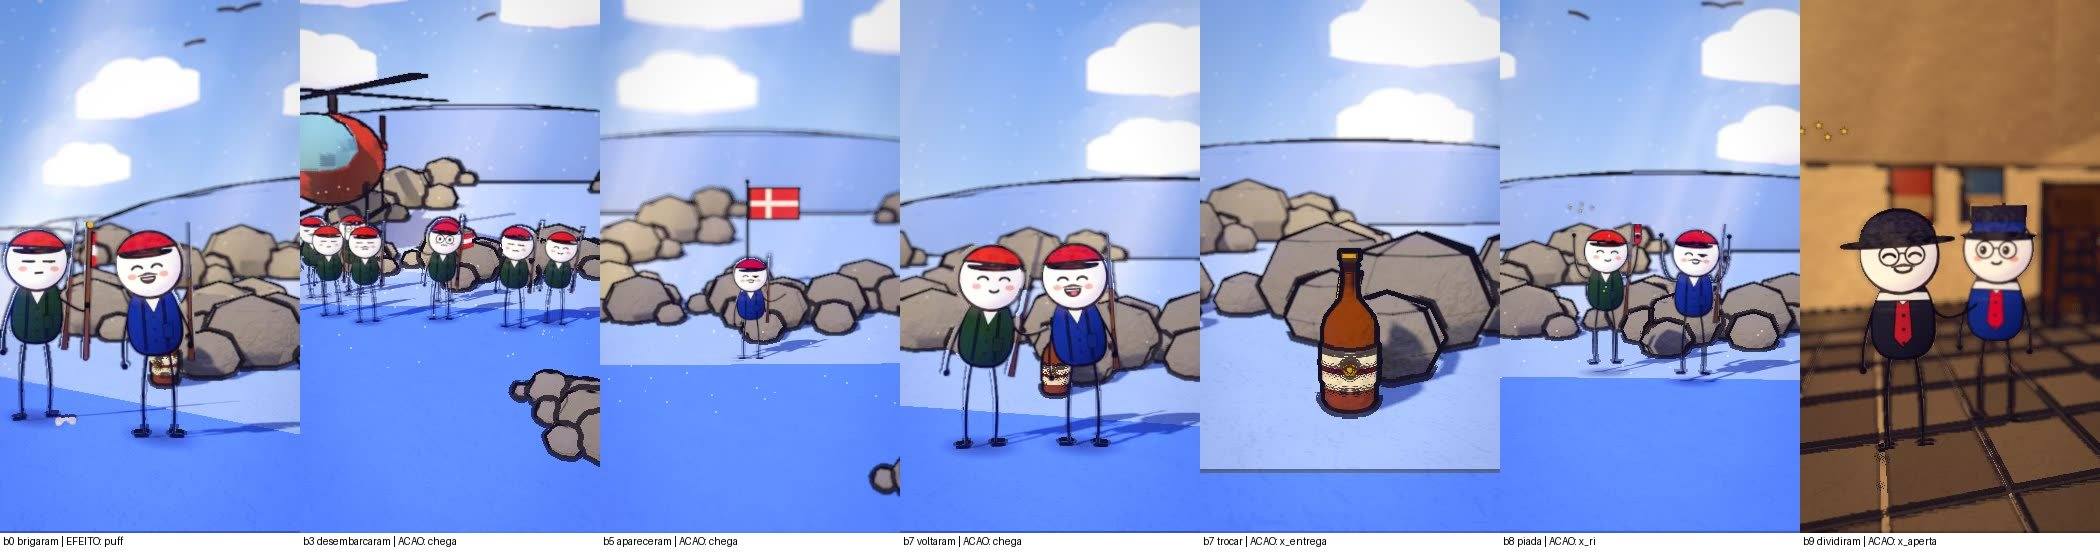
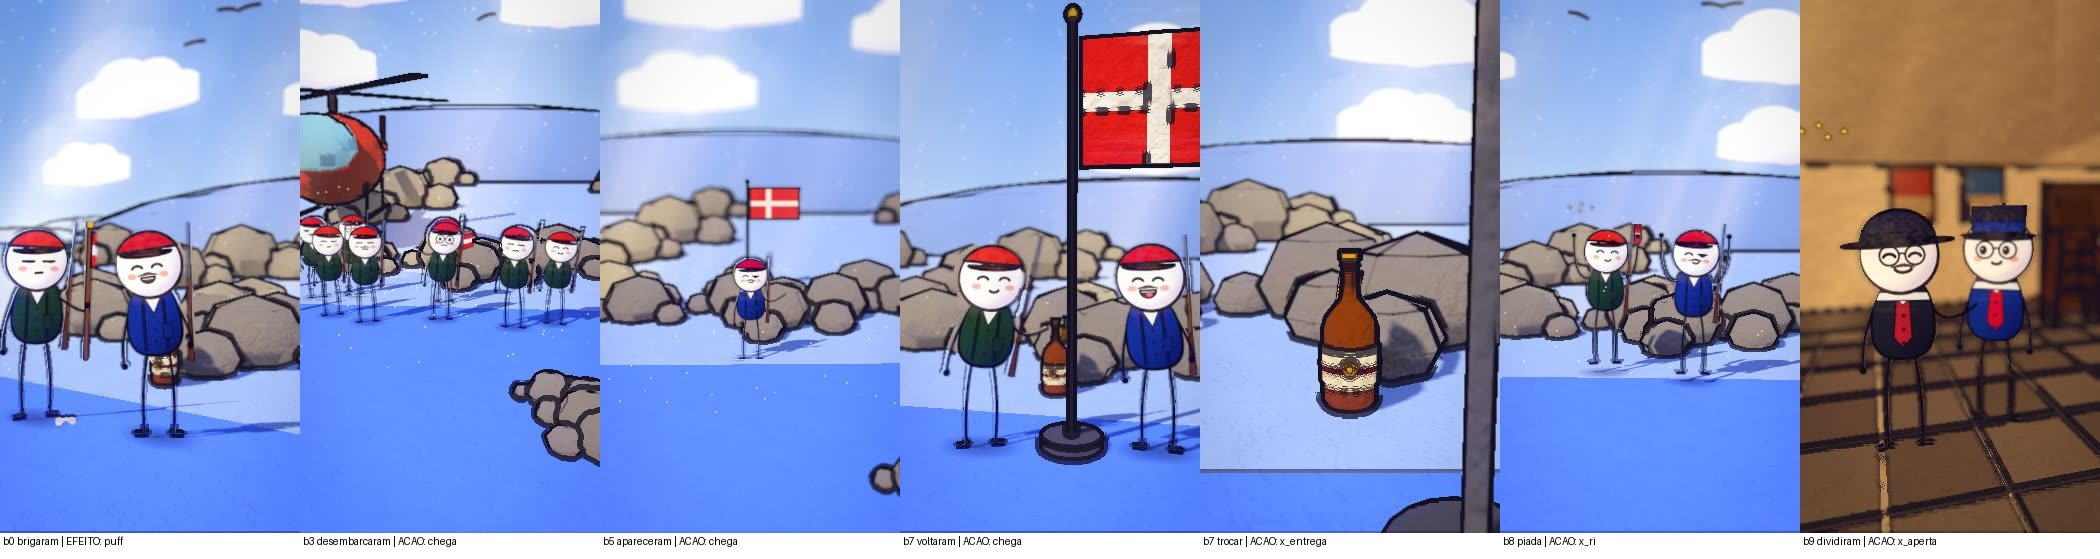
Banquinho b8 enquadramento automatico
Claude-Session: https://claude.ai/code/session_01HE8Dy3UcXXZZMLa7uzjNJD

Changed region(s): [[0.4952, 0.0, 0.5881, 0.8515], [0.65, 0.0, 0.7119, 0.9732]]

diff --git a/ferramenta-shorts/web/story.js b/ferramenta-shorts/web/story.js
@@ -41,11 +41,11 @@ const SPEC = {
     S('b4', A[4], A[5] - 1, X, "day", { h: 2.3, d0: 12.1, d1: 11.5, az0: 16, az1: 30, cx: 0.0, cz: -0.6, hero: { hero: 'any', frame: 'medium', minH: 0.07, main: 2 }, trans: 'dissolve', actors: [pp(X, "CAN", 0, -1.0, 1.3, "smile", { over: { hold: "flag" }, pose: 'cheer', inter: { k: 'hop', a: Math.round(A[4] + (A[5] - 1 - (A[4])) * 0.12), b: Math.round(A[4] + (A[5] - 1 - (A[4])) * 0.82), dir: 1, n: 2, ph: 0 } }), pp(X, "CAN", 1, 1.0, 1.0, "laugh", { pose: 'cheer', inter: { k: 'hop', a: Math.round(A[4] + (A[5] - 1 - (A[4])) * 0.2), b: Math.round(A[4] + (A[5] - 1 - (A[4])) * 0.9), dir: -1, n: 2, ph: 3.14 } })], props: [{ asset: "kit/bandeira_canada", at: [X + 7.0, -14.0], s: 0.9, fixo: true, drop: false }, { asset: "kit/whisky", at: [X + 0.0, -1.2], s: 1.2, fixo: true, drop: false }, { asset: "kit/tequila_bolt", at: [X + 0.0, -2.3], s: 1.0, drop: false }], fx: [{ k: 'stars', a: A[4] + 6, b: A[4] + 40, at: [X + 0.0, DK + 1.6, -0.7], s: 0.8 }, { k: 'birds', a: A[4], b: A[5] - 1, at: [X, DK + 6.0, -30], n: 5, dir: 1, off: 8 }] }),
     { ...S('b5', A[5], A[6] - 1, X, "day", { h: 2.4, d0: 21.0, d1: 20.0, el: 11, fov: 46, cx: 0.0, cz: -2.0, hero: { hero: 'none', wide: true }, vary: false, nocut: true, trans: 'dissolve', actors: [_MA(pp(X, "DIN", 0, 0.0, -0.4, "smug", { over: { hold: "flag" } }), { gests: [[WS(77) - 8, WS(77) + 46, 'point']] })], props: [{ asset: "kit/bandeira_dinamarca", at: [X + 0.0, -8.9], s: 1.2, fixo: true, drop: false }], fx: [{ k: 'birds', a: A[5], b: A[6] - 1, at: [X, DK + 7.5, -30], n: 6, dir: 1, off: 15 }, { k: "stars", a: A[5] + 30, b: A[5] + 56, at: [X, DK + 0.5, 1.2], s: 1.1 }] }), nocut: true },
     S('b6', A[6], Math.round(A[6] + (A[7] - 1 + 1 - (A[6])) * 0.36) - 1, X, "day", { h: 2.3, d0: 12.1, d1: 11.5, az0: -14, az1: 4, cx: 0.0, cz: -0.6, hero: { hero: 'any', frame: 'medium', minH: 0.07, main: 2 }, trans: 'dissolve', actors: [pp(X, "DIN", 0, -1.0, 1.3, "grin", { over: { hold: "paper" }, inter: { k: 'step', a: Math.round(A[6] + (A[7] - 1 - (A[6])) * 0.12), b: Math.round(A[6] + (A[7] - 1 - (A[6])) * 0.82), dir: 1, n: 2, ph: 0 } }), pp(X, "CAN", 0, 1.0, 1.0, "shock", { pose: 'react', inter: { k: 'nod', a: Math.round(A[6] + (A[7] - 1 - (A[6])) * 0.2), b: Math.round(A[6] + (A[7] - 1 - (A[6])) * 0.9), dir: -1, n: 2, ph: 3.14 } })], props: [{ asset: "kit/whisky", at: [X + 0.0, -1.2], s: 1.2, fixo: true, drop: false }, { asset: "mk/Crate_Metal", at: [X + -3.1, 0.2], s: 1.1 }, { asset: "kit/tequila_bolt", at: [X + 0.0, -2.3], s: 1.0, drop: false }], fx: [{ k: 'stars', a: A[6] + 6, b: A[6] + 40, at: [X + 0.0, DK + 1.6, -0.7], s: 0.8 }, { k: 'birds', a: A[6], b: A[7] - 1, at: [X, DK + 4.5, -30], n: 4, dir: -1, off: 8 }] }), { ...S('b6_d', Math.round(A[6] + (A[7] - 1 + 1 - (A[6])) * 0.36), Math.round(A[6] + (A[7] - 1 + 1 - (A[6])) * 0.6) - 1, X, "day", { h: 2.3, d0: 12.1, d1: 11.5, az0: -14, az1: 4, cx: 0.0, cz: -0.6, hero: { hero: 'none', detalhe: true }, trans: 'cut', actors: [pp(X, "DIN", 0, -1.0, 1.3, "grin", { over: { hold: "paper" } }), pp(X, "CAN", 0, 1.0, 1.0, "shock", { pose: 'react' })], props: [{ asset: "kit/whisky", at: [X + 0.0, -1.2], s: 1.2, drop: false, fixo: true, drop: false }, { asset: "mk/Crate_Metal", at: [X + -3.1, 0.2], s: 1.1, drop: false }, { asset: "kit/tequila_bolt", at: [X + 0.0, -2.3], s: 1.0, drop: false }], fx: [{ k: 'stars', a: A[6] + 6, b: A[6] + 40, at: [X + 0.0, DK + 1.6, -0.7], s: 0.8 }, { k: 'birds', a: A[6], b: A[7] - 1, at: [X, DK + 4.5, -30], n: 4, dir: -1, off: 8 }] }), cam: [{ f: Math.round(A[6] + (A[7] - 1 + 1 - (A[6])) * 0.36), at: [X + 0.0, DK + 0.9, -1.2], d: 4.2, az: -14, el: 10, fov: 44 }, { f: Math.round(A[6] + (A[7] - 1 + 1 - (A[6])) * 0.6) - 1, at: [X + 0.0, DK + 0.9, -1.2], d: 3.4, az: -8, el: 9, fov: 44 }], nocut: true, vary: false, glide: true, glideN: 34 }, { ...S('b6_v', Math.round(A[6] + (A[7] - 1 + 1 - (A[6])) * 0.6), A[7] - 1, X, "day", { h: 2.3, d0: 12.1, d1: 11.5, az0: -14, az1: 4, cx: 0.0, cz: -0.6, hero: { hero: 'any', frame: 'medium', minH: 0.07, main: 2 }, trans: 'cut', actors: [pp(X, "DIN", 0, -1.0, 1.3, "grin", { over: { hold: "paper" }, inter: { k: 'step', a: Math.round(A[6] + (A[7] - 1 - (A[6])) * 0.12), b: Math.round(A[6] + (A[7] - 1 - (A[6])) * 0.82), dir: 1, n: 2, ph: 0 } }), pp(X, "CAN", 0, 1.0, 1.0, "shock", { pose: 'react', inter: { k: 'nod', a: Math.round(A[6] + (A[7] - 1 - (A[6])) * 0.2), b: Math.round(A[6] + (A[7] - 1 - (A[6])) * 0.9), dir: -1, n: 2, ph: 3.14 } })], props: [{ asset: "kit/whisky", at: [X + 0.0, -1.2], s: 1.2, drop: false, fixo: true, drop: false }, { asset: "mk/Crate_Metal", at: [X + -3.1, 0.2], s: 1.1, drop: false }, { asset: "kit/tequila_bolt", at: [X + 0.0, -2.3], s: 1.0, drop: false }], fx: [{ k: 'stars', a: A[6] + 6, b: A[6] + 40, at: [X + 0.0, DK + 1.6, -0.7], s: 0.8 }, { k: 'birds', a: A[6], b: A[7] - 1, at: [X, DK + 4.5, -30], n: 4, dir: -1, off: 8 }] }), glide: true, glideN: 34 },
-    S('b7', A[7], Math.round(A[7] + (A[8] - 1 + 1 - (A[7])) * 0.36) - 1, X, "day", { h: 2.5, d0: 12.1, d1: 11.5, az0: 24, az1: 10, cx: 0.0, cz: -0.6, vary: false, hero: { hero: 'any', frame: 'medium', minH: 0.07, main: 2 }, trans: 'dissolve', actors: [_MA(pp(X, "CAN", 0, -1.0, 1.3, "smug", { over: { hold: "bottle" }, inter: { k: 'lean', a: Math.round(A[7] + (A[8] - 1 - (A[7])) * 0.12), b: Math.round(A[7] + (A[8] - 1 - (A[7])) * 0.82), dir: 1, n: 2, ph: 0 } }), { gests: [[WS(101) - 8, Math.max(WS(101) + 14, WS(104) - 5), 'point'], [WS(104) - 8, WS(104) + 46, 'reach']] }), pp(X, "DIN", 0, 1.0, 1.0, "smug", { pose: 'talk', inter: { k: 'lean', a: Math.round(A[7] + (A[8] - 1 - (A[7])) * 0.2), b: Math.round(A[7] + (A[8] - 1 - (A[7])) * 0.9), dir: -1, n: 2, ph: 3.14 } })], props: [{ asset: "kit/bandeira_dinamarca", at: [X + 7.0, -14.0], s: 1.0, fixo: true, drop: false }, { asset: "kit/whisky", at: [X + 0.0, -1.2], s: 1.2, fixo: true, drop: false }, { asset: "kit/tequila_bolt", at: [X + 0.0, -2.3], s: 1.0, drop: false }], fx: [{ k: 'stars', a: A[7] + 6, b: A[7] + 40, at: [X + 0.0, DK + 1.6, -0.7], s: 0.8 }] }), { ...S('b7_d', Math.round(A[7] + (A[8] - 1 + 1 - (A[7])) * 0.36), Math.round(A[7] + (A[8] - 1 + 1 - (A[7])) * 0.6) - 1, X, "day", { h: 2.5, d0: 12.1, d1: 11.5, az0: 24, az1: 10, cx: 0.0, cz: -0.6, vary: false, hero: { hero: 'none', detalhe: true }, trans: 'cut', actors: [_MA(pp(X, "CAN", 0, -1.0, 1.3, "smug", { over: { hold: "bottle" } }), { gests: [[WS(101) - 8, Math.max(WS(101) + 14, WS(104) - 5), 'point'], [WS(104) - 8, WS(104) + 46, 'reach']] }), pp(X, "DIN", 0, 1.0, 1.0, "smug", { pose: 'stand' })], props: [{ asset: "kit/bandeira_dinamarca", at: [X + 7.0, -14.0], s: 1.0, drop: false, fixo: true, drop: false }, { asset: "kit/whisky", at: [X + 0.0, -1.2], s: 1.2, drop: false, fixo: true, drop: false }, { asset: "kit/tequila_bolt", at: [X + 0.0, -2.3], s: 1.0, drop: false }], fx: [{ k: 'stars', a: A[7] + 6, b: A[7] + 40, at: [X + 0.0, DK + 1.6, -0.7], s: 0.8 }] }), cam: [{ f: Math.round(A[7] + (A[8] - 1 + 1 - (A[7])) * 0.36), at: [X + 0.0, DK + 0.9, -1.2], d: 4.2, az: -14, el: 10, fov: 44 }, { f: Math.round(A[7] + (A[8] - 1 + 1 - (A[7])) * 0.6) - 1, at: [X + 0.0, DK + 0.9, -1.2], d: 3.4, az: -8, el: 9, fov: 44 }], nocut: true, vary: false, glide: true, glideN: 34 }, { ...S('b7_v', Math.round(A[7] + (A[8] - 1 + 1 - (A[7])) * 0.6), A[8] - 1, X, "day", { h: 2.5, d0: 12.1, d1: 11.5, az0: 24, az1: 10, cx: 0.0, cz: -0.6, vary: false, hero: { hero: 'any', frame: 'medium', minH: 0.07, main: 2 }, trans: 'cut', actors: [_MA(pp(X, "CAN", 0, -1.0, 1.3, "smug", { over: { hold: "bottle" }, inter: { k: 'lean', a: Math.round(A[7] + (A[8] - 1 - (A[7])) * 0.12), b: Math.round(A[7] + (A[8] - 1 - (A[7])) * 0.82), dir: 1, n: 2, ph: 0 } }), { gests: [[WS(101) - 8, Math.max(WS(101) + 14, WS(104) - 5), 'point'], [WS(104) - 8, WS(104) + 46, 'reach']] }), pp(X, "DIN", 0, 1.0, 1.0, "smug", { pose: 'talk', inter: { k: 'lean', a: Math.round(A[7] + (A[8] - 1 - (A[7])) * 0.2), b: Math.round(A[7] + (A[8] - 1 - (A[7])) * 0.9), dir: -1, n: 2, ph: 3.14 } })], props: [{ asset: "kit/bandeira_dinamarca", at: [X + 7.0, -14.0], s: 1.0, drop: false, fixo: true, drop: false }, { asset: "kit/whisky", at: [X + 0.0, -1.2], s: 1.2, drop: false, fixo: true, drop: false }, { asset: "kit/tequila_bolt", at: [X + 0.0, -2.3], s: 1.0, drop: false }], fx: [{ k: 'stars', a: A[7] + 6, b: A[7] + 40, at: [X + 0.0, DK + 1.6, -0.7], s: 0.8 }] }), glide: true, glideN: 34 },
+    S('b7', A[7], Math.round(A[7] + (A[8] - 1 + 1 - (A[7])) * 0.36) - 1, X, "day", { h: 2.5, d0: 12.1, d1: 11.5, az0: 24, az1: 10, cx: 0.0, cz: -0.6, vary: false, hero: { hero: 'any', frame: 'medium', minH: 0.07, main: 2 }, trans: 'dissolve', actors: [_MA(pp(X, "CAN", 0, -1.0, 1.3, "smug", { over: { hold: "bottle" }, inter: { k: 'lean', a: Math.round(A[7] + (A[8] - 1 - (A[7])) * 0.12), b: Math.round(A[7] + (A[8] - 1 - (A[7])) * 0.82), dir: 1, n: 2, ph: 0 } }), { gests: [[WS(101) - 8, Math.max(WS(101) + 14, WS(104) - 5), 'point'], [WS(104) - 8, WS(104) + 46, 'reach']] }), pp(X, "DIN", 0, 1.0, 1.0, "smug", { pose: 'talk', inter: { k: 'lean', a: Math.round(A[7] + (A[8] - 1 - (A[7])) * 0.2), b: Math.round(A[7] + (A[8] - 1 - (A[7])) * 0.9), dir: -1, n: 2, ph: 3.14 } })], props: [{ asset: "kit/bandeira_dinamarca", at: [X + 0.6, 1.0], s: 1.5, fixo: true, drop: false }, { asset: "kit/whisky", at: [X + 0.0, -1.2], s: 1.2, fixo: true, drop: false }, { asset: "kit/tequila_bolt", at: [X + 0.0, -2.3], s: 1.0, drop: false }], fx: [{ k: 'stars', a: A[7] + 6, b: A[7] + 40, at: [X + 0.0, DK + 1.6, -0.7], s: 0.8 }] }), { ...S('b7_d', Math.round(A[7] + (A[8] - 1 + 1 - (A[7])) * 0.36), Math.round(A[7] + (A[8] - 1 + 1 - (A[7])) * 0.6) - 1, X, "day", { h: 2.5, d0: 12.1, d1: 11.5, az0: 24, az1: 10, cx: 0.0, cz: -0.6, vary: false, hero: { hero: 'none', detalhe: true }, trans: 'cut', actors: [_MA(pp(X, "CAN", 0, -1.0, 1.3, "smug", { over: { hold: "bottle" } }), { gests: [[WS(101) - 8, Math.max(WS(101) + 14, WS(104) - 5), 'point'], [WS(104) - 8, WS(104) + 46, 'reach']] }), pp(X, "DIN", 0, 1.0, 1.0, "smug", { pose: 'stand' })], props: [{ asset: "kit/bandeira_dinamarca", at: [X + 0.6, 1.0], s: 1.5, drop: false, fixo: true, drop: false }, { asset: "kit/whisky", at: [X + 0.0, -1.2], s: 1.2, drop: false, fixo: true, drop: false }, { asset: "kit/tequila_bolt", at: [X + 0.0, -2.3], s: 1.0, drop: false }], fx: [{ k: 'stars', a: A[7] + 6, b: A[7] + 40, at: [X + 0.0, DK + 1.6, -0.7], s: 0.8 }] }), cam: [{ f: Math.round(A[7] + (A[8] - 1 + 1 - (A[7])) * 0.36), at: [X + 0.0, DK + 0.9, -1.2], d: 4.2, az: -14, el: 10, fov: 44 }, { f: Math.round(A[7] + (A[8] - 1 + 1 - (A[7])) * 0.6) - 1, at: [X + 0.0, DK + 0.9, -1.2], d: 3.4, az: -8, el: 9, fov: 44 }], nocut: true, vary: false, glide: true, glideN: 34 }, { ...S('b7_v', Math.round(A[7] + (A[8] - 1 + 1 - (A[7])) * 0.6), A[8] - 1, X, "day", { h: 2.5, d0: 12.1, d1: 11.5, az0: 24, az1: 10, cx: 0.0, cz: -0.6, vary: false, hero: { hero: 'any', frame: 'medium', minH: 0.07, main: 2 }, trans: 'cut', actors: [_MA(pp(X, "CAN", 0, -1.0, 1.3, "smug", { over: { hold: "bottle" }, inter: { k: 'lean', a: Math.round(A[7] + (A[8] - 1 - (A[7])) * 0.12), b: Math.round(A[7] + (A[8] - 1 - (A[7])) * 0.82), dir: 1, n: 2, ph: 0 } }), { gests: [[WS(101) - 8, Math.max(WS(101) + 14, WS(104) - 5), 'point'], [WS(104) - 8, WS(104) + 46, 'reach']] }), pp(X, "DIN", 0, 1.0, 1.0, "smug", { pose: 'talk', inter: { k: 'lean', a: Math.round(A[7] + (A[8] - 1 - (A[7])) * 0.2), b: Math.round(A[7] + (A[8] - 1 - (A[7])) * 0.9), dir: -1, n: 2, ph: 3.14 } })], props: [{ asset: "kit/bandeira_dinamarca", at: [X + 0.6, 1.0], s: 1.5, drop: false, fixo: true, drop: false }, { asset: "kit/whisky", at: [X + 0.0, -1.2], s: 1.2, drop: false, fixo: true, drop: false }, { asset: "kit/tequila_bolt", at: [X + 0.0, -2.3], s: 1.0, drop: false }], fx: [{ k: 'stars', a: A[7] + 6, b: A[7] + 40, at: [X + 0.0, DK + 1.6, -0.7], s: 0.8 }] }), glide: true, glideN: 34 },
     { ...S('b8', A[8], A[9] - 1, X, "day", { h: 2.4, d0: 20, d1: 16, el: 5, fov: 46, cx: 0.0, cz: -1.5, hero: { hero: 'none', wide: true }, vary: false, nocut: true, trans: 'dissolve', actors: [_MA(pp(X, "CAN", 0, -1.0, -0.4, "smug", { over: { hold: "bottle" } }), { gests: [[WS(122) - 8, WS(122) + 46, 'up']] }), _MA(pp(X, "DIN", 0, 1.0, 0.2, "smug"), { gests: [[WS(122) - 6, WS(122) + 46, 'up']] })], props: [{ asset: "kit/whisky", at: [X + 0.0, -2.3], s: 1.0, drop: false }], fx: [{ k: 'birds', a: A[8], b: A[9] - 1, at: [X, DK + 7.5, -30], n: 6, dir: 1, off: 8 }, { k: "stars", a: WS(122) + 3, b: WS(122) + 30, at: [X + -1.0, DK + 2.6, 1.7], s: 0.6 }] }), nocut: true },
     S('b9', A[9], A[10] - 1, X_hall, "study", { h: 2.3, d0: 7.3, d1: 6.86, fov: 57.0, az0: -13, az1: -7, vary: false, hero: { hero: 'any', frame: 'medium', minH: 0.07, main: 2 }, trans: 'dissolve', actors: [_MA(pp(X_hall, "PRE", 0, -1.0, 1.3, "relief", { over: { hold: "paper" }, inter: { k: 'step', a: Math.round(A[9] + (A[10] - 1 - (A[9])) * 0.12), b: Math.round(A[9] + (A[10] - 1 - (A[9])) * 0.82), dir: 1, n: 2, ph: 0 } }), { gests: [[WS(135) - 8, WS(135) + 46, 'point']] }), pp(X_hall, "MIN", 0, 1.0, 1.0, "smile", { pose: 'talk', inter: { k: 'nod', a: Math.round(A[9] + (A[10] - 1 - (A[9])) * 0.2), b: Math.round(A[9] + (A[10] - 1 - (A[9])) * 0.9), dir: -1, n: 2, ph: 3.14 } })], props: [{ asset: "kit/room_europa_stone", at: [X_hall, 0], s: 1, drop: false }, { asset: "mk/Cabinet", at: [X_hall + -7.2, -3.3], s: 2.3, drop: false }, { asset: "mk/Bed_Twin1", at: [X_hall + 7.0, -2.4], s: 2.1, drop: false }, { asset: "mk/Nightstand_Shelf", at: [X_hall + 4.6, -3.2], s: 2.2, drop: false }, { asset: "mk/Stool", at: [X_hall + -4.8, -2.8], s: 2.2, drop: false }, { asset: "mk/Crate_Metal", at: [X_hall + -7.4, 0.8], s: 2.0, drop: false }], fx: [{ k: "stars", a: WS(135) + 3, b: WS(135) + 30, at: [X_hall + -1.0, DK + 2.6, 1.7], s: 0.6 }] }),
-    S('b10', A[10], A[11] - 1, X_hall, "study", { h: 2.4, d0: 7.2, d1: 6.77, fov: 50.5, az0: -2, az1: 3, cx: 1.2, cz: 0.1, hero: { hero: 'any', frame: 'medium', minH: 0.07, main: 1 }, trans: 'dissolve', actors: [pp(X_hall, "CAN", 0, 0.0, 1.3, "smile", { over: { hold: "bottle" }, pose: 'cheer' })], props: [{ asset: "kit/room_europa_stone", at: [X_hall, 0], s: 1, drop: false }, { asset: "mk/Cabinet", at: [X_hall + -7.2, -3.3], s: 2.3, drop: false }, { asset: "mk/Bed_Twin1", at: [X_hall + 7.0, -2.4], s: 2.1, drop: false }, { asset: "mk/Nightstand_Shelf", at: [X_hall + 4.6, -3.2], s: 2.2, drop: false }, { asset: "mk/Stool", at: [X_hall + -4.8, -2.8], s: 2.2, drop: false }, { asset: "mk/Crate_Metal", at: [X_hall + -7.4, 0.8], s: 2.0, drop: false }, { asset: "kit/whisky", at: [X_hall + 2.4, 0.2], s: 1.3, fixo: true, drop: false }], fx: [{ k: 'stars', a: A[10] + 6, b: A[10] + 40, at: [X_hall + 2.4, DK + 1.6, 0.7], s: 0.8 }] }),
-    S('b11', A[11], A[12] - 1, X_hall, "study", { h: 2.3, d0: 7.3, d1: 6.86, fov: 57.0, az0: -10, az1: -5, hero: { hero: 'any', frame: 'medium', minH: 0.07, main: 1 }, trans: 'dissolve', actors: [pp(X_hall, "CAN", 0, 0.0, 1.3, "grin", { pose: 'talk' })], props: [{ asset: "kit/room_europa_stone", at: [X_hall, 0], s: 1, drop: false }, { asset: "mk/Cabinet", at: [X_hall + -7.2, -3.3], s: 2.3, drop: false }, { asset: "mk/Bed_Twin1", at: [X_hall + 7.0, -2.4], s: 2.1, drop: false }, { asset: "mk/Nightstand_Shelf", at: [X_hall + 4.6, -3.2], s: 2.2, drop: false }, { asset: "mk/Stool", at: [X_hall + -4.8, -2.8], s: 2.2, drop: false }, { asset: "mk/Crate_Metal", at: [X_hall + -7.4, 0.8], s: 2.0, drop: false }, { asset: "kit/whisky", at: [X_hall + 1.7, -0.5], s: 1.3, drop: false }], fx: [{ k: 'stars', a: A[11] + 6, b: A[11] + 40, at: [X_hall + 1.7, DK + 1.6, 0.0], s: 0.8 }, txt(X_hall, WS(154, -2), A[12] - 1, "COMENTE!", '#e8c45a', '#7a1c1c', 4.5, { s: 1.5, up: 0.46 })] })
+    S('b10', A[10], A[11] - 1, X_hall, "study", { h: 2.5, d0: 7.2, d1: 6.77, fov: 50.5, az0: -2, az1: 3, cx: 1.2, cz: 0.1, hero: { hero: 'any', frame: 'medium', minH: 0.07, main: 1 }, trans: 'dissolve', actors: [pp(X_hall, "CAN", 0, 0.0, 1.3, "smile", { over: { hold: "bottle" }, pose: 'cheer' })], props: [{ asset: "kit/room_europa_stone", at: [X_hall, 0], s: 1, drop: false }, { asset: "mk/Cabinet", at: [X_hall + -7.2, -3.3], s: 2.3, drop: false }, { asset: "mk/Bed_Twin1", at: [X_hall + 7.0, -2.4], s: 2.1, drop: false }, { asset: "mk/Nightstand_Shelf", at: [X_hall + 4.6, -3.2], s: 2.2, drop: false }, { asset: "mk/Stool", at: [X_hall + -4.8, -2.8], s: 2.2, drop: false }, { asset: "mk/Crate_Metal", at: [X_hall + -7.4, 0.8], s: 2.0, drop: false }, { asset: "kit/whisky", at: [X_hall + 2.4, 0.2], s: 1.3, fixo: true, drop: false }], fx: [{ k: 'stars', a: A[10] + 6, b: A[10] + 40, at: [X_hall + 2.4, DK + 1.6, 0.7], s: 0.8 }] }),
+    S('b11', A[11], A[12] - 1, X_hall, "study", { h: 2.4, d0: 6.4, d1: 5.6, az0: -10, az1: -5, hero: { hero: 'any', frame: 'medium', minH: 0.07, main: 1 }, trans: 'dissolve', actors: [pp(X_hall, "CAN", 0, 0.0, 1.3, "grin", { pose: 'talk' })], props: [{ asset: "kit/room_europa_stone", at: [X_hall, 0], s: 1, drop: false }, { asset: "mk/Cabinet", at: [X_hall + -7.2, -3.3], s: 2.3, drop: false }, { asset: "mk/Bed_Twin1", at: [X_hall + 7.0, -2.4], s: 2.1, drop: false }, { asset: "mk/Nightstand_Shelf", at: [X_hall + 4.6, -3.2], s: 2.2, drop: false }, { asset: "mk/Stool", at: [X_hall + -4.8, -2.8], s: 2.2, drop: false }, { asset: "mk/Crate_Metal", at: [X_hall + -7.4, 0.8], s: 2.0, drop: false }, { asset: "kit/whisky", at: [X_hall + 1.7, -0.5], s: 1.3, drop: false }], fx: [{ k: 'stars', a: A[11] + 6, b: A[11] + 40, at: [X_hall + 1.7, DK + 1.6, 0.0], s: 0.8 }, txt(X_hall, WS(154, -2), A[12] - 1, "COMENTE!", '#e8c45a', '#7a1c1c', 4.6, { s: 1.5, up: 0.55 })] })
   ],
 };
 

diff --git a/ferramenta-shorts/stories/uisque1984/cronograma.md b/ferramenta-shorts/stories/uisque1984/cronograma.md
@@ -30,13 +30,13 @@ N | Etapa | O que confere | Estado | Proximo passo
 5 | Voz | narracao neural gerada e tempos por palavra | FEITO | 
 6 | Estilo e enquadramento | autoajuste de luz/cor e ajuste de camera de cada tomada | FEITO | 
 7 | Gates | camera OK, todas as tomadas OK, estilo OK | FEITO | 
-8 | Storyboard e grade de acoes | video inteiro em quadros + 1 quadro no instante de cada acao | PENDENTE | 
-9 | Revisao escrita e aprovacao | uma linha por frase conferindo com a folha 3 e com o quadro da pesquisa | BLOQUEADO (etapa anterior pendente) | ./aprovar_storyboard.sh uisque1984
+8 | Storyboard e grade de acoes | video inteiro em quadros + 1 quadro no instante de cada acao | FEITO | 
+9 | Revisao escrita e aprovacao | uma linha por frase conferindo com a folha 3 e com o quadro da pesquisa | PENDENTE | ./aprovar_storyboard.sh uisque1984
 10 | Render | todos os quadros renderizados nesta versao das folhas | BLOQUEADO (etapa anterior pendente) | 
 11 | Montagem e som | trechos + voz + musica + efeitos; volume normalizado | BLOQUEADO (etapa anterior pendente) | 
 12 | Conferencia | conferir.sh sem falha e folha de contato olhada | BLOQUEADO (etapa anterior pendente) | ./conferir.sh uisque1984
 13 | Auditoria das acoes | 1 quadro do mp4 em cada palavra de acao | BLOQUEADO (etapa anterior pendente) | bash auditar_acoes.sh local uisque1984 <mp4>
 14 | Entrega | mp4 original 1080x1920 enviado; commit e push | BLOQUEADO (etapa anterior pendente) | 
 
-**Etapa atual:** 8. Storyboard e grade de acoes
+**Etapa atual:** 9. Revisao escrita e aprovacao
 
